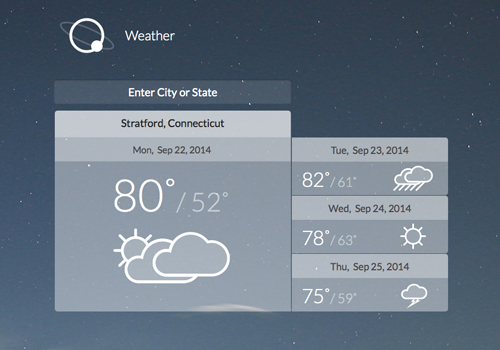
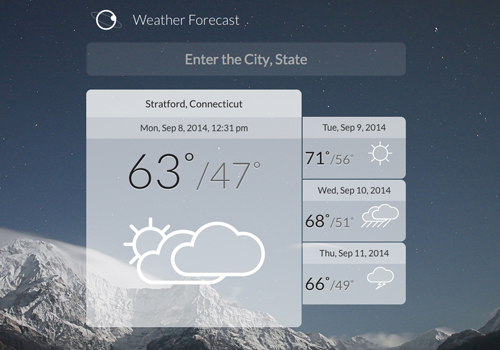
updated weather app info

diff --git a/_posts/2014-09-22-weather.html b/_posts/2014-09-22-weather.html
@@ -1,16 +1,16 @@
 ---
 layout:       post
 title:        "Weather"
-description:  "Weather application using the Wunderground.com API. This project is in progress. Using Sketch 3 to design the prototpye and the icons."
+description:  "Weather application using the Wunderground.com API and SVG icons. Using Sketch 3 to design the prototpye and the icons. This project is in progress - HTML and CSS finished. The next step is creating the JavaScript."
 thumbnail:    weather-sm.jpg
-image1:       weather.png
+image1:       weather.jpg
 image1_desc:  "Desktop and Mobile Screenshot"
 image2:
 image2_desc:  # add description
 image3:
 image3_desc:  # add description
-project_url:
-button_title:
+project_url:  ""
+button_title: "Weather Forecast App"
 fitlers:      JavaScript jQuery HTML CSS
 date:         2014-09-22 01:11:10
 categories:   project
